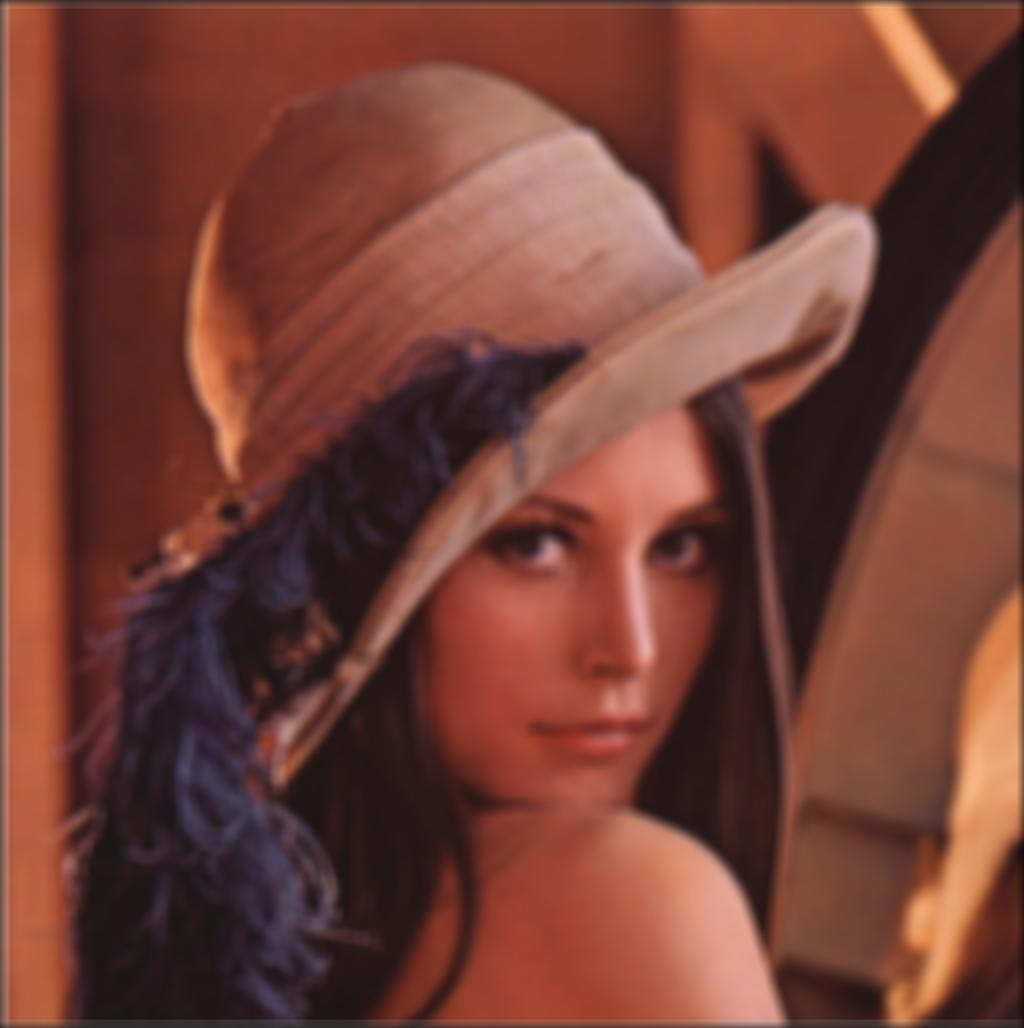
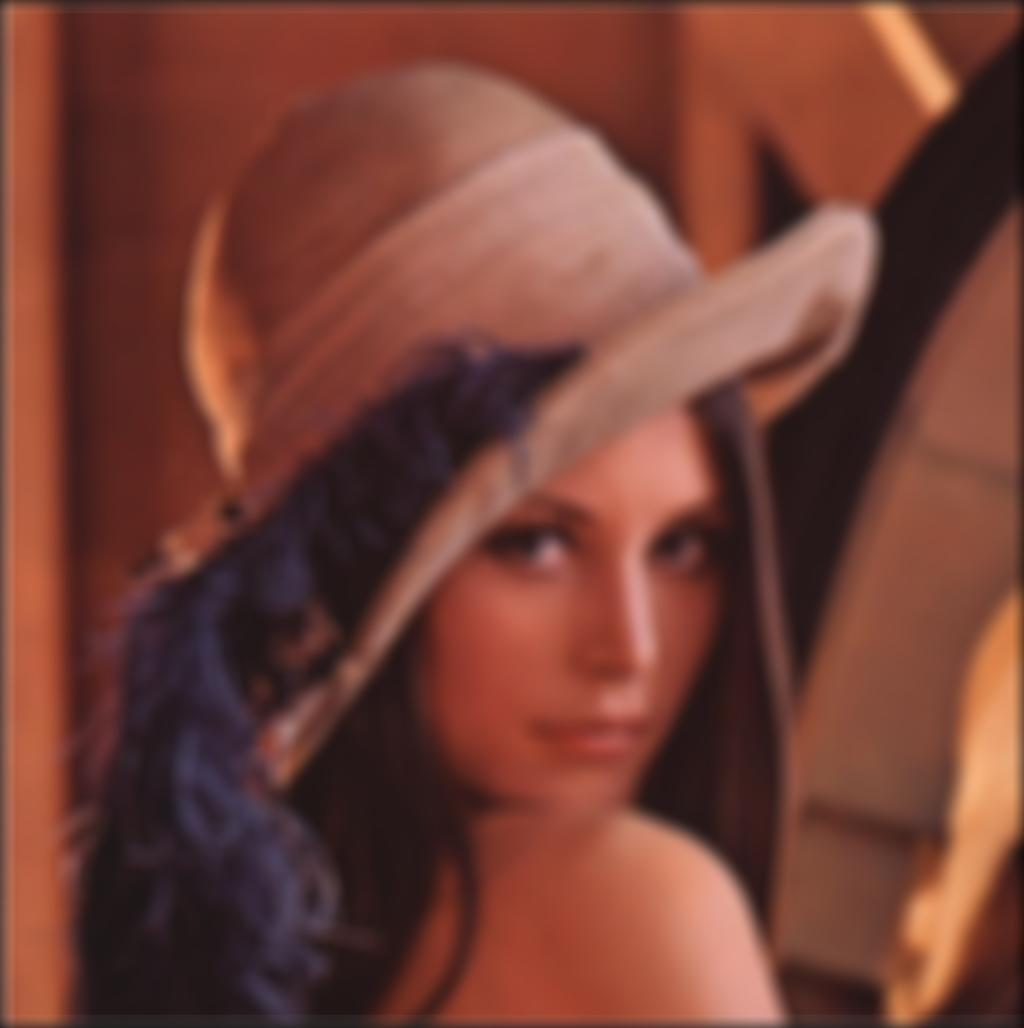
updated the filters.py

diff --git a/examples/example_usage.py b/examples/example_usage.py
@@ -1,22 +1,3 @@
-# from mavrick.core.image_io import load_image, save_image
-# from mavrick.filters import apply_filter 
-# from mavrick.filters import gaussian_filter
-# import numpy as np 
-
-# # Load an image
-# image = load_image('../mavrick/resources/sample_images/test.jpg')
-
-# # Define a simple blur filter
-# # filter_matrix = np.ones((3, 3)) / 9
-
-# # # Apply the filter to the image
-# # filtered_image = apply_filter(image, filter_matrix)
-
-# # Apply the Gaussian filter to the image
-# filtered_image = gaussian_filter(image, size=20, sigma=10)
-# # Save the filtered image
-# save_image(filtered_image, '../mavrick/resources/sample_images/filtered_test.jpg')
-
 import mavrick as mv
 import numpy as np
 
@@ -24,7 +5,7 @@ import numpy as np
 image = mv.load_image('../mavrick/resources/sample_images/test.jpg')
 
 # Apply the Gaussian filter to the image
-filtered_image = mv.gaussian_filter(image, size=15, sigma=10)
+filtered_image = mv.gaussian_filter(image, size=25, sigma=10)
 
 # Save the filtered image
 mv.save_image(filtered_image, '../mavrick/resources/sample_images/filtered_test.jpg')

diff --git a/mavrick/filters/__init__.py b/mavrick/filters/__init__.py
@@ -1,27 +1,3 @@
-# mavrick/filters/__init__.py
-import jax.numpy as jnp
-from jax import jit
-from jax.scipy.signal import convolve2d 
-from .gaussian_filter import gaussian_filter
+from .filters import gaussian_filter
 
-
-@jit
-def apply_filter(image, filter_matrix):
-    """Applies a filter to an image using JAX for computations.
-    
-    Args:
-        image (numpy.ndarray): The input image as a NumPy array.
-        filter_matrix (numpy.ndarray): The filter to apply.
-        
-    Returns:
-        numpy.ndarray: The filtered image.
-    """
-    # Ensure the image is 2D or 3D (grayscale or RGB)
-    if image.ndim == 2:  # Grayscale image
-        return jnp.clip(convolve2d(image, filter_matrix, mode='same'), 0, 255)
-    elif image.ndim == 3:  # RGB image
-        # Apply the filter to each channel separately
-        channels = [convolve2d(image[..., i], filter_matrix, mode='same') for i in range(image.shape[-1])]
-        return jnp.clip(jnp.stack(channels, axis=-1), 0, 255)
-    else:
-        raise ValueError("Unsupported image dimensions.")
+__all__ = ['gaussian_filter']

diff --git a/mavrick/filters/filters.py b/mavrick/filters/filters.py
@@ -23,3 +23,5 @@ def gaussian_filter(image, size=5, sigma=1.0):
 
 # JIT-compile the main function with size and sigma as static arguments
 gaussian_filter = jit(gaussian_filter, static_argnums=(1, 2))
+
+# You can define other filters here in a similar manner

diff --git a/mavrick/__init__.py b/mavrick/__init__.py
@@ -1,6 +1,3 @@
-# mavrick/__init__.py
-from .core.image_io import load_image, save_image
-from .filters import apply_filter
 from .core import load_image, save_image
 from .filters import gaussian_filter
 
